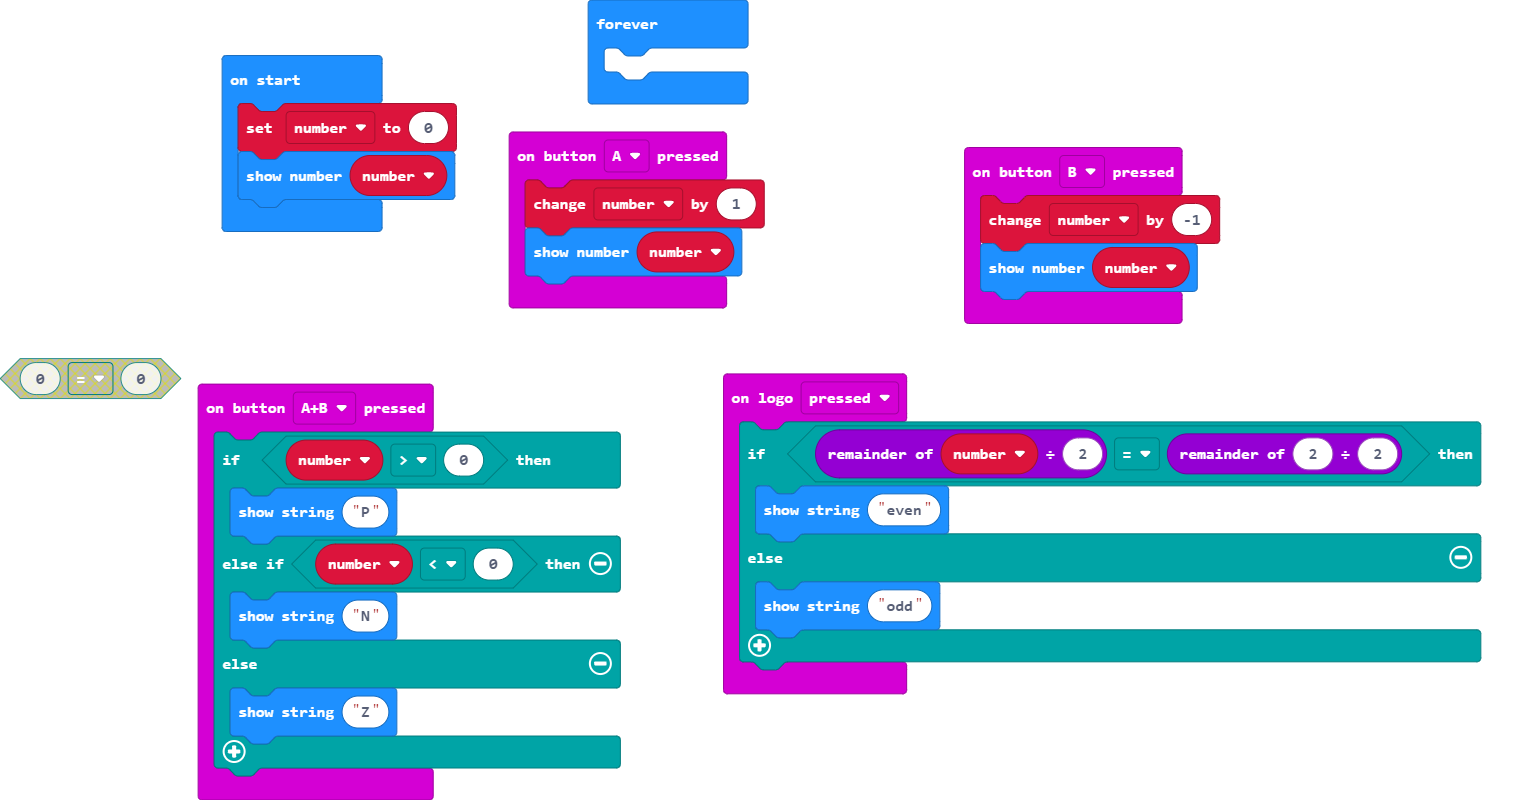
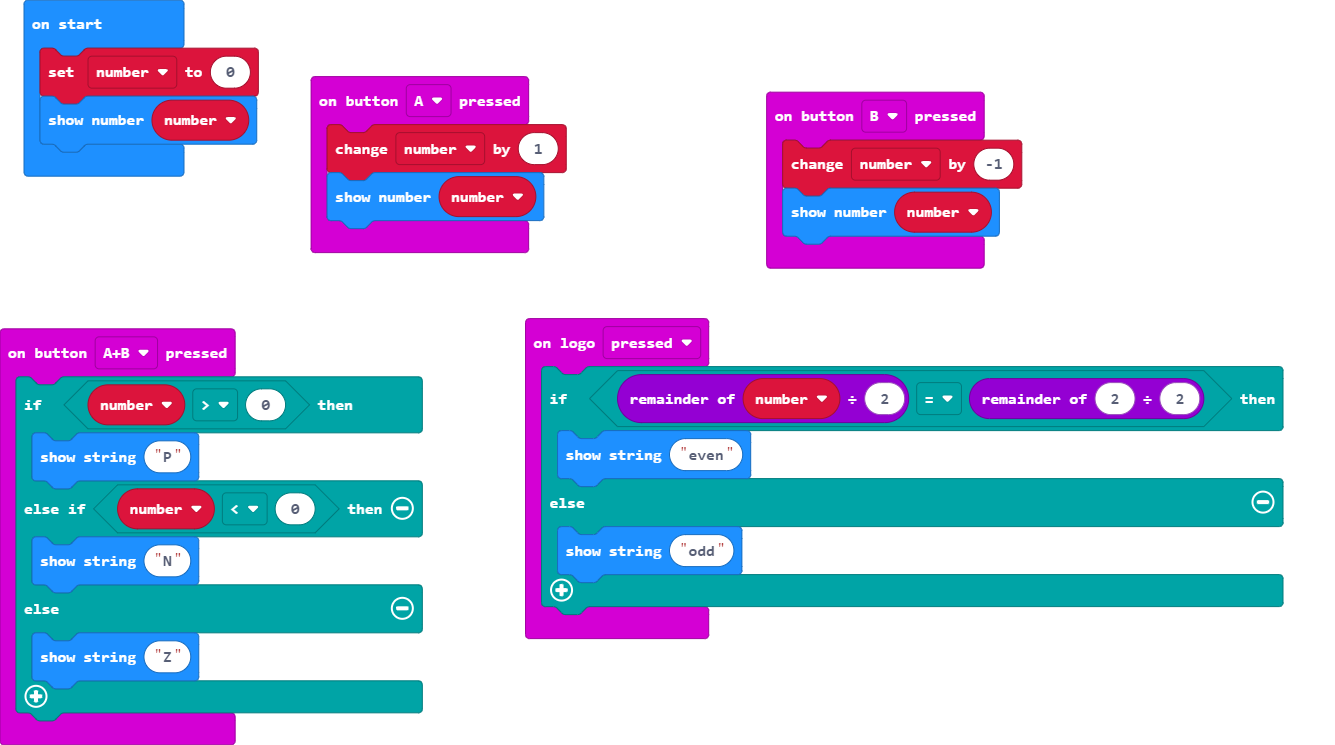
Update main.blocks, main.ts

diff --git a/main.ts b/main.ts
@@ -25,6 +25,3 @@ input.onLogoEvent(TouchButtonEvent.Pressed, function () {
 let number = 0
 number = 0
 basic.showNumber(number)
-basic.forever(function () {
-	
-})
